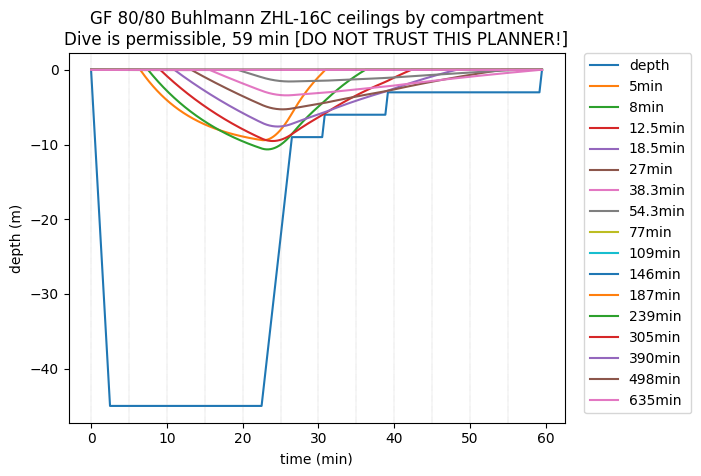
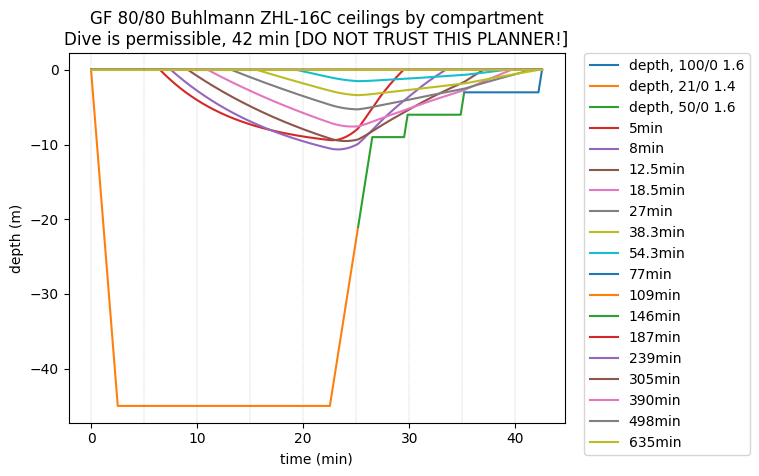
gas switching

diff --git a/planner.py b/planner.py
@@ -1,7 +1,18 @@
-from deco import DiveProfile, Buhlmann_Z16C, graph_buhlmann_dive_profile, DiveProfileCheckpoint
+from deco import DiveProfile, Buhlmann_Z16C, graph_buhlmann_dive_profile, DiveProfileCheckpoint, Gas
+
+air = Gas()
+air_tec = Gas(ppo2=1.2)
+eanx32 = Gas(oxygen=32)
+eanx32_tec = Gas(oxygen=32, ppo2=1.2)
+deco_eanx50 = Gas(oxygen=50, ppo2=1.6)
+deco_oxygen = Gas(oxygen=100, ppo2=1.6)
+trimix_21_35 = Gas(oxygen=21, helium=35, ppo2=1.2)
+trimix_18_45 = Gas(oxygen=18, helium=45, ppo2=1.2)
+trimix_15_55 = Gas(oxygen=15, helium=55, ppo2=1.2)
+trimix_12_65 = Gas(oxygen=12, helium=65, ppo2=1.2)
 
 class ChangeDepth():
-    def __init__(self, depth, time_min=None, time_s=None, speed_mm=9) -> None:
+    def __init__(self, depth, available_gases, time_min=None, time_s=None, speed_mm=9) -> None:
         self.depth = depth
         if time_min:
             self.time_s = time_min*60
@@ -12,15 +23,41 @@ class ChangeDepth():
         else:
             self.time_s = None
         self.speed_ms = speed_mm/60
-        
+        self.available_gases = available_gases
+    
+    @staticmethod
+    def get_best_gas(available_gases, depth):
+        best_gas = None
+        for gas in available_gases:
+            if depth < gas.mod:
+                if not best_gas:
+                    best_gas = gas
+                else:
+                    if best_gas.oxygen < gas.oxygen:
+                        best_gas = gas
+        if not best_gas:
+            raise Exception("no permissible gas for depth {}".format(depth))
+        return best_gas
+
     def get_new_checkpoint(self, prev_checkpoint: DiveProfileCheckpoint):
         prev_time = prev_checkpoint.time
         prev_depth = prev_checkpoint.depth
+        if self.depth > prev_checkpoint.gas.mod:
+            gas = self.get_best_gas(self.available_gases, self.depth)
+        else:
+            gas = prev_checkpoint.gas
         if self.time_s:
             time = prev_time + self.time_s
         elif self.speed_ms:
             time = prev_time + abs(prev_depth - self.depth)/self.speed_ms
-        return DiveProfileCheckpoint(time=time, depth=self.depth)
+        return DiveProfileCheckpoint(time=int(time)+1, depth=self.depth, gas=gas)
+
+class SwitchGas():
+    def __init__(self, gas):
+        self.gas = gas
+    
+    def get_new_checkpoint(self, prev_checkpoint: DiveProfileCheckpoint):
+        return DiveProfileCheckpoint(time=prev_checkpoint.time + 60, depth=prev_checkpoint.depth, gas = self.gas)
 
 class MaintainDepth():
     def __init__(self, time_min=None, time_s=None) -> None:
@@ -32,7 +69,8 @@ class MaintainDepth():
     def get_new_checkpoint(self, prev_checkpoint: DiveProfileCheckpoint):
         prev_time = prev_checkpoint.time
         prev_depth = prev_checkpoint.depth
-        return DiveProfileCheckpoint(time=self.time_s+prev_time, depth=prev_depth)
+        prev_gas = prev_checkpoint.gas
+        return DiveProfileCheckpoint(time=self.time_s+int(prev_time), depth=prev_depth, gas=prev_gas)
 
 class SafetyStop():
     def __init__(self, depth=5, ss_time_min=3, ss_time_s=None, speed_mm=9) -> None:
@@ -64,15 +102,32 @@ class AscendDirectly():
         return ChangeDepth(depth=0, time_s=self.time_s, speed_mm=self.speed_ms*60).get_new_checkpoint(prev_checkpoint)
 
 class GetMeHome():
-    def __init__(self, algorithm) -> None:
+    def __init__(self, algorithm, available_gases=[air]) -> None:
         self.algorithm = algorithm
+        self.available_gases = available_gases
         pass
+
+    @staticmethod
+    def get_best_deco_gas(available_gases, new_depth):
+        best_gas = None
+        for gas in available_gases:
+            if new_depth < gas.mod:
+                if not best_gas:
+                    best_gas = gas
+                else:
+                    if best_gas.oxygen < gas.oxygen:
+                        best_gas = gas
+        if not best_gas:
+            raise Exception("no permissible gas for depth {}".format(new_depth))
+        return best_gas
 
     def get_new_checkpoint_from_all_checkpoints(self, dive_checkpoints):
         dive = DiveProfile(checkpoints=dive_checkpoints)
-        while dive_checkpoints[-1].depth > 0 and dive_checkpoints[-1].time < 60*60*10:
+        while dive_checkpoints[-1].depth > 0 and dive_checkpoints[-1].time < 60*60:
             prev_time = dive_checkpoints[-1].time
             prev_depth = dive_checkpoints[-1].depth
+            prev_gas = dive_checkpoints[-1].gas
+            print(prev_gas.id)
             if prev_depth % 3 == 0:
                 new_depth = prev_depth - 3
             else:
@@ -81,13 +136,13 @@ class GetMeHome():
                 new_time = prev_time + 20
             else:
                 new_time = int(prev_time)+1
-            
-            new_dive_checkpoint = DiveProfileCheckpoint(time=new_time, depth = new_depth)
+            new_gas = self.get_best_deco_gas(self.available_gases, new_depth)
+            new_dive_checkpoint = DiveProfileCheckpoint(time=new_time, depth = new_depth, gas=new_gas)
             dive_checkpoints.append(new_dive_checkpoint)
             dive.add_checkpoint(new_dive_checkpoint)
             valid = self.algorithm.process(dive)
             if not valid:
-                new_dive_checkpoint = DiveProfileCheckpoint(time=prev_time+60, depth = prev_depth)
+                new_dive_checkpoint = DiveProfileCheckpoint(time=prev_time+60, depth = prev_depth, gas=prev_gas)
                 dive_checkpoints.pop()
                 dive_checkpoints.append(new_dive_checkpoint)
                 dive.delete_after(prev_time)
@@ -111,11 +166,14 @@ def process_diveplan(dive_plan):
     return dive_checkpoints
 
 buhlmann = Buhlmann_Z16C(gf=80)
-
+available_gases=[air, deco_eanx50, deco_oxygen, trimix_12_65, trimix_15_55, trimix_18_45]
 dive_plan = [
-    ChangeDepth(depth=45, speed_mm=18),
+    # ChangeDepth(depth=55, speed_mm=18, available_gases=available_gases),
+    # SwitchGas(gas=trimix_12_65),
+    # ChangeDepth(depth=65, speed_mm=18, available_gases=available_gases),
+    ChangeDepth(depth=45, available_gases=[air], speed_mm=18),
     MaintainDepth(time_min=20),
-    GetMeHome(algorithm=buhlmann)
+    GetMeHome(algorithm=buhlmann, available_gases=available_gases)
     # SafetyStop(),
     # AscendDirectly()
 ]

diff --git a/deco.py b/deco.py
@@ -11,21 +11,39 @@ An algorithm will then run to generate (time,depth,compartment_1_ppN2)
 A second algorithm will compare (depth,compartment_1_ppN2) to the M-value at that depth
 """
 
-# set obvious parameters
-OXYGEN = 0.21
-NITROGEN = 0.79
-assert OXYGEN + NITROGEN == 1
-
 SURFACE_OXYGEN = 0.21
 SURFACE_NITROGEN = 0.79
 assert SURFACE_OXYGEN + SURFACE_NITROGEN == 1
 
 WV_PRESSURE = 0.0627
 
+class Gas:
+    def __init__(self, oxygen=21, helium=0, ppo2=1.4) -> None:
+        self.oxygen = oxygen/100
+        self.helium = helium/100
+        self.nitrogen = 1 - self.oxygen - self.helium
+        self.mod = self.get_mod(ppo2)
+        self.id = str(oxygen) + '/' + str(helium) + ' ' + str(ppo2)
+
+    def get_mod(self, ppo2):
+        return ppo2 / self.oxygen * 10 - 10
+
+air = Gas()
+air_tec = Gas(ppo2=1.2)
+eanx32 = Gas(oxygen=32)
+eanx32_tec = Gas(oxygen=32, ppo2=1.2)
+deco_eanx50 = Gas(oxygen=50, ppo2=1.6)
+deco_oxygen = Gas(oxygen=100, ppo2=1.6)
+trimix_21_35 = Gas(oxygen=21, helium=35, ppo2=1.2)
+trimix_18_45 = Gas(oxygen=18, helium=45, ppo2=1.2)
+trimix_15_55 = Gas(oxygen=15, helium=55, ppo2=1.2)
+trimix_12_65 = Gas(oxygen=12, helium=65, ppo2=1.2)
+
 class DiveProfileCheckpoint:
-    def __init__(self, time, depth, state=None, validation=None) -> None:
+    def __init__(self, time, depth, gas=air, state=None, validation=None) -> None:
         self.time = time
         self.depth = depth
+        self.gas = gas
         self.state = state
         self.validation = validation
 
@@ -43,12 +61,17 @@ class DiveProfile:
     def explode_checkpoints(self, checkpoints):
         assert checkpoints[0].time == 0
         assert checkpoints[0].depth == 0
+        for i in range(len(checkpoints)-1):
+            prev_ckpt = checkpoints[i]
+            next_ckpt = checkpoints[i+1]
+            assert prev_ckpt.time == int(prev_ckpt.time)
+            assert next_ckpt.time == int(next_ckpt.time)
+            assert prev_ckpt.time < next_ckpt.time
         self.profile = []
         for checkpoint in checkpoints:
             self.add_checkpoint(checkpoint)
     
     def delete_after(self, t):
-        # TODO optimisation for GetMeHome
         for i in reversed(range(len(self.profile))):
             if self.profile[i].time > t:
                 self.profile.pop()
@@ -68,7 +91,8 @@ class DiveProfile:
             else:
                 prop_prev = (time_to_process - prev_checkpoint.time) / (next_checkpoint.time - prev_checkpoint.time)
                 interpolated_depth = next_checkpoint.depth * prop_prev + prev_checkpoint.depth * (1-prop_prev)
-                new_checkpoint = DiveProfileCheckpoint(time=time_to_process, depth=interpolated_depth)
+                gas=prev_checkpoint.gas
+                new_checkpoint = DiveProfileCheckpoint(time=time_to_process, depth=interpolated_depth, gas=gas)
                 self.profile.append(new_checkpoint)
             time_to_process = time_to_process + 1
     
@@ -122,7 +146,7 @@ class BuhlmannCompartmentState:
                 ][0]
             self.update_ppn2(
                 compartment,
-                inhaled_ppn2=(1+(current_checkpoint.depth)/10 - WV_PRESSURE) * NITROGEN,
+                inhaled_ppn2=(1+(current_checkpoint.depth)/10 - WV_PRESSURE) * current_checkpoint.gas.nitrogen,
                 time_spent=current_checkpoint.time - previous_checkpoint.time,
                 prev_ppn2=prev_ppn2
             )
@@ -241,12 +265,15 @@ class Buhlmann_Z16C(DiveAlgorithm):
     def __validate_states__(self, dive_profile: DiveProfile) -> bool:
         for checkpoint in dive_profile:
             if not checkpoint.validation:
-                checkpoint.validation = all([compartment.ceiling <= checkpoint.depth for compartment in checkpoint.state])
+                ceilings_valid = all([compartment.ceiling <= checkpoint.depth for compartment in checkpoint.state])
+                mod_valid = checkpoint.depth <= checkpoint.gas.mod
+                checkpoint.validation = ceilings_valid and mod_valid
         return all([checkpoint.validation for checkpoint in dive_profile])
 
 def graph_buhlmann_dive_profile(dive: DiveProfile, buhlmann: Buhlmann_Z16C):
     times = [checkpoint.time/60 for checkpoint in dive.profile]
-    depths = [-checkpoint.depth for checkpoint in dive.profile]
+    gas_ids = set([checkpoint.gas.id for checkpoint in dive.profile])
+    depths_by_gas = [(gas_id, [(-checkpoint.depth, checkpoint.time) for checkpoint in dive.profile if checkpoint.gas.id == gas_id]) for gas_id in gas_ids]
     checkpoints_not_allowed = [checkpoint for checkpoint in dive.profile if not checkpoint.validation]
     validation = len(checkpoints_not_allowed) == 0
     min_second_not_allowed = None if validation else int(checkpoints_not_allowed[0].time)
@@ -254,7 +281,12 @@ def graph_buhlmann_dive_profile(dive: DiveProfile, buhlmann: Buhlmann_Z16C):
 
     import matplotlib.pyplot as plt
     plt.tight_layout()
-    plt.plot(times, depths, label='depth')
+    for gas_depths_times in depths_by_gas:
+        gas_id = gas_depths_times[0]
+        gas_depths = [depth for depth,time in gas_depths_times[1]]
+        gas_times = [time/60 for depth,time in gas_depths_times[1]]
+
+        plt.plot(gas_times, gas_depths, label='depth, {}'.format(gas_id))
 
     for i in range(len(buhlmann.compartments)):
         compartment_ceiling = [-checkpoint.state[i].ceiling for checkpoint in dive.profile]
